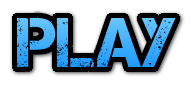
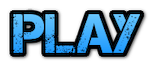
Changed UI of Play Button and Game Title
Got rid of the Score Button as the score will be displayed in the end to
the game and will not be displayed on the main menu screen.

diff --git a/build/js/main.js b/build/js/main.js
@@ -554,13 +554,15 @@ menuState.prototype = {
 		var title = this.game.add.sprite(this.world.centerX, this.world.centerY/2-20, 'title');
 		title.anchor.setTo(0.5, 0.5);
 		var tween = this.add.tween(title);
-		tween.to({y: this.world.width/5+25}, 800, Phaser.Easing.Bounce.Out, true, 500);
+		tween.to({y: this.world.height/2-50}, 800, Phaser.Easing.Bounce.Out, true, 500);
 
-		var startButton = this.game.add.button(this.world.centerX, 300, 'play', this.startPlay, this);
+		var startButton = this.game.add.button(this.world.centerX, this.world.centerY + 50, 'play', this.startPlay, this);
 		startButton.anchor.setTo(0.5, 0.5);
+		startButton.scale.setTo(1.2, 1.2);
 
-		var scoreButton = this.game.add.button(this.world.centerX, 360, 'score', this.checkScore, this);
-		scoreButton.anchor.setTo(0.5, 0.5);
+		// var scoreButton = this.game.add.button(this.world.centerX, 360, 'score', this.checkScore, this);
+		// scoreButton.anchor.setTo(0.5, 0.5);
+
 		var authorText = this.add.bitmapText(this.world.centerX, 500, 'lastmileFont', 'Developed by Sancho', 20);
 		authorText.anchor.setTo(0.5, 0.5);
 		this.game.add.button(this.world.width-50, this.world.height-50, 'fullscreen', this.fullScreen, this);

diff --git a/src/states/menu.js b/src/states/menu.js
@@ -22,13 +22,15 @@ menuState.prototype = {
 		var title = this.game.add.sprite(this.world.centerX, this.world.centerY/2-20, 'title');
 		title.anchor.setTo(0.5, 0.5);
 		var tween = this.add.tween(title);
-		tween.to({y: this.world.width/5+25}, 800, Phaser.Easing.Bounce.Out, true, 500);
+		tween.to({y: this.world.height/2-50}, 800, Phaser.Easing.Bounce.Out, true, 500);
 
-		var startButton = this.game.add.button(this.world.centerX, 300, 'play', this.startPlay, this);
+		var startButton = this.game.add.button(this.world.centerX, this.world.centerY + 50, 'play', this.startPlay, this);
 		startButton.anchor.setTo(0.5, 0.5);
+		startButton.scale.setTo(1.2, 1.2);
 
-		var scoreButton = this.game.add.button(this.world.centerX, 360, 'score', this.checkScore, this);
-		scoreButton.anchor.setTo(0.5, 0.5);
+		// var scoreButton = this.game.add.button(this.world.centerX, 360, 'score', this.checkScore, this);
+		// scoreButton.anchor.setTo(0.5, 0.5);
+
 		var authorText = this.add.bitmapText(this.world.centerX, 500, 'lastmileFont', 'Developed by Sancho', 20);
 		authorText.anchor.setTo(0.5, 0.5);
 		this.game.add.button(this.world.width-50, this.world.height-50, 'fullscreen', this.fullScreen, this);
